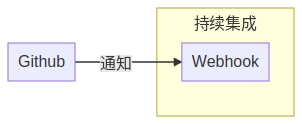
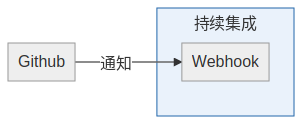
Updated mmdc

diff --git a/netmap.html b/netmap.html
@@ -1,7 +1,7 @@
 <!DOCTYPE html>
 <html xmlns="http://www.w3.org/1999/xhtml" lang="en" xml:lang="en">
 <head>
-<!-- 2019-12-10 二 00:23 -->
+<!-- 2019-12-10 二 23:51 -->
 <meta charset="utf-8" />
 <meta name="viewport" content="width=device-width, initial-scale=1" />
 <title>Netmap</title>
@@ -25,7 +25,7 @@
 <li><a href="#org4515d78">Vale Behavior</a></li>
 <li><a href="#orgf49f821">Mac Address Learning</a>
 <ul>
-<li><a href="#org75ccd77">Prepare Vale</a></li>
+<li><a href="#org070d865">Prepare Vale</a></li>
 <li><a href="#org9fd878d">Show Mac Addresses</a></li>
 <li><a href="#org22b9e9b">Train Vale</a></li>
 <li><a href="#org8c5aa3b">Send Packets</a></li>
@@ -33,7 +33,7 @@
 </li>
 <li><a href="#org7e7c2c3">Broadcast and Multicast</a>
 <ul>
-<li><a href="#org40314a7">Prepare Vale</a></li>
+<li><a href="#org8d5a324">Prepare Vale</a></li>
 <li><a href="#org3a7243b">Send Broadcast</a></li>
 <li><a href="#orge19b115">Send Multicast</a></li>
 </ul>
@@ -130,9 +130,9 @@ address.
 <h3 id="orgf49f821">Mac Address Learning</h3>
 <div class="outline-text-3" id="text-orgf49f821">
 </div>
-<div id="outline-container-org75ccd77" class="outline-4">
-<h4 id="org75ccd77">Prepare Vale</h4>
-<div class="outline-text-4" id="text-org75ccd77">
+<div id="outline-container-org070d865" class="outline-4">
+<h4 id="org070d865">Prepare Vale</h4>
+<div class="outline-text-4" id="text-org070d865">
 <div class="org-src-container">
 <pre class="src src-sh">vale-ctl -n vi0
 vale-ctl -n vi1
@@ -213,9 +213,9 @@ Send packages from <code>vi0</code> to <code>vi1</code>:
 <h3 id="org7e7c2c3">Broadcast and Multicast</h3>
 <div class="outline-text-3" id="text-org7e7c2c3">
 </div>
-<div id="outline-container-org40314a7" class="outline-4">
-<h4 id="org40314a7">Prepare Vale</h4>
-<div class="outline-text-4" id="text-org40314a7">
+<div id="outline-container-org8d5a324" class="outline-4">
+<h4 id="org8d5a324">Prepare Vale</h4>
+<div class="outline-text-4" id="text-org8d5a324">
 <div class="org-src-container">
 <pre class="src src-sh">vale-ctl -n v1p1
 vale-ctl -n v1p2

diff --git a/org-publish.html b/org-publish.html
@@ -1,7 +1,7 @@
 <!DOCTYPE html>
 <html xmlns="http://www.w3.org/1999/xhtml" lang="en" xml:lang="en">
 <head>
-<!-- 2019-12-10 二 00:23 -->
+<!-- 2019-12-10 二 23:51 -->
 <meta charset="utf-8" />
 <meta name="viewport" content="width=device-width, initial-scale=1" />
 <title>Publish Github Pages via Org Mode</title>

diff --git a/arista.html b/arista.html
@@ -1,7 +1,7 @@
 <!DOCTYPE html>
 <html xmlns="http://www.w3.org/1999/xhtml" lang="en" xml:lang="en">
 <head>
-<!-- 2019-12-10 二 00:23 -->
+<!-- 2019-12-10 二 23:51 -->
 <meta charset="utf-8" />
 <meta name="viewport" content="width=device-width, initial-scale=1" />
 <title>Running Arista vEOS in OpenStack</title>

diff --git a/hdiutil.html b/hdiutil.html
@@ -1,7 +1,7 @@
 <!DOCTYPE html>
 <html xmlns="http://www.w3.org/1999/xhtml" lang="en" xml:lang="en">
 <head>
-<!-- 2019-12-10 二 00:23 -->
+<!-- 2019-12-10 二 23:51 -->
 <meta charset="utf-8" />
 <meta name="viewport" content="width=device-width, initial-scale=1" />
 <title>Manipulate Disk Images Under Mac</title>

diff --git a/dummynet.html b/dummynet.html
@@ -1,7 +1,7 @@
 <!DOCTYPE html>
 <html xmlns="http://www.w3.org/1999/xhtml" lang="en" xml:lang="en">
 <head>
-<!-- 2019-12-10 二 00:23 -->
+<!-- 2019-12-10 二 23:51 -->
 <meta charset="utf-8" />
 <meta name="viewport" content="width=device-width, initial-scale=1" />
 <title>Dummynet Usage on Mac</title>

diff --git a/gitlab-ci.html b/gitlab-ci.html
@@ -1,7 +1,7 @@
 <!DOCTYPE html>
 <html xmlns="http://www.w3.org/1999/xhtml" lang="en" xml:lang="en">
 <head>
-<!-- 2019-12-10 二 00:23 -->
+<!-- 2019-12-10 二 23:51 -->
 <meta charset="utf-8" />
 <meta name="viewport" content="width=device-width, initial-scale=1" />
 <title>Gitlab的持续集成</title>

diff --git a/index.html b/index.html
@@ -1,7 +1,7 @@
 <!DOCTYPE html>
 <html xmlns="http://www.w3.org/1999/xhtml" lang="en" xml:lang="en">
 <head>
-<!-- 2019-12-10 二 00:23 -->
+<!-- 2019-12-10 二 23:51 -->
 <meta charset="utf-8" />
 <meta name="viewport" content="width=device-width, initial-scale=1" />
 <title>Thatched Cottage</title>

diff --git a/freebsd-cloud.html b/freebsd-cloud.html
@@ -1,7 +1,7 @@
 <!DOCTYPE html>
 <html xmlns="http://www.w3.org/1999/xhtml" lang="en" xml:lang="en">
 <head>
-<!-- 2019-12-10 二 00:23 -->
+<!-- 2019-12-10 二 23:51 -->
 <meta charset="utf-8" />
 <meta name="viewport" content="width=device-width, initial-scale=1" />
 <title>FreeBSD Cloud</title>

diff --git a/godebug.html b/godebug.html
@@ -1,7 +1,7 @@
 <!DOCTYPE html>
 <html xmlns="http://www.w3.org/1999/xhtml" lang="en" xml:lang="en">
 <head>
-<!-- 2019-12-10 二 00:23 -->
+<!-- 2019-12-10 二 23:51 -->
 <meta charset="utf-8" />
 <meta name="viewport" content="width=device-width, initial-scale=1" />
 <title>Go Debug</title>

diff --git a/kids.html b/kids.html
@@ -1,7 +1,7 @@
 <!DOCTYPE html>
 <html xmlns="http://www.w3.org/1999/xhtml" lang="en" xml:lang="en">
 <head>
-<!-- 2019-12-10 二 00:23 -->
+<!-- 2019-12-10 二 23:51 -->
 <meta charset="utf-8" />
 <meta name="viewport" content="width=device-width, initial-scale=1" />
 <title>My Kids</title>

diff --git a/sitemap.html b/sitemap.html
@@ -1,7 +1,7 @@
 <!DOCTYPE html>
 <html xmlns="http://www.w3.org/1999/xhtml" lang="en" xml:lang="en">
 <head>
-<!-- 2019-12-10 二 00:23 -->
+<!-- 2019-12-10 二 23:51 -->
 <meta charset="utf-8" />
 <meta name="viewport" content="width=device-width, initial-scale=1" />
 <title>Sitemap</title>

diff --git a/tips.html b/tips.html
@@ -1,7 +1,7 @@
 <!DOCTYPE html>
 <html xmlns="http://www.w3.org/1999/xhtml" lang="en" xml:lang="en">
 <head>
-<!-- 2019-12-10 二 00:23 -->
+<!-- 2019-12-10 二 23:51 -->
 <meta charset="utf-8" />
 <meta name="viewport" content="width=device-width, initial-scale=1" />
 <title>Tips</title>
